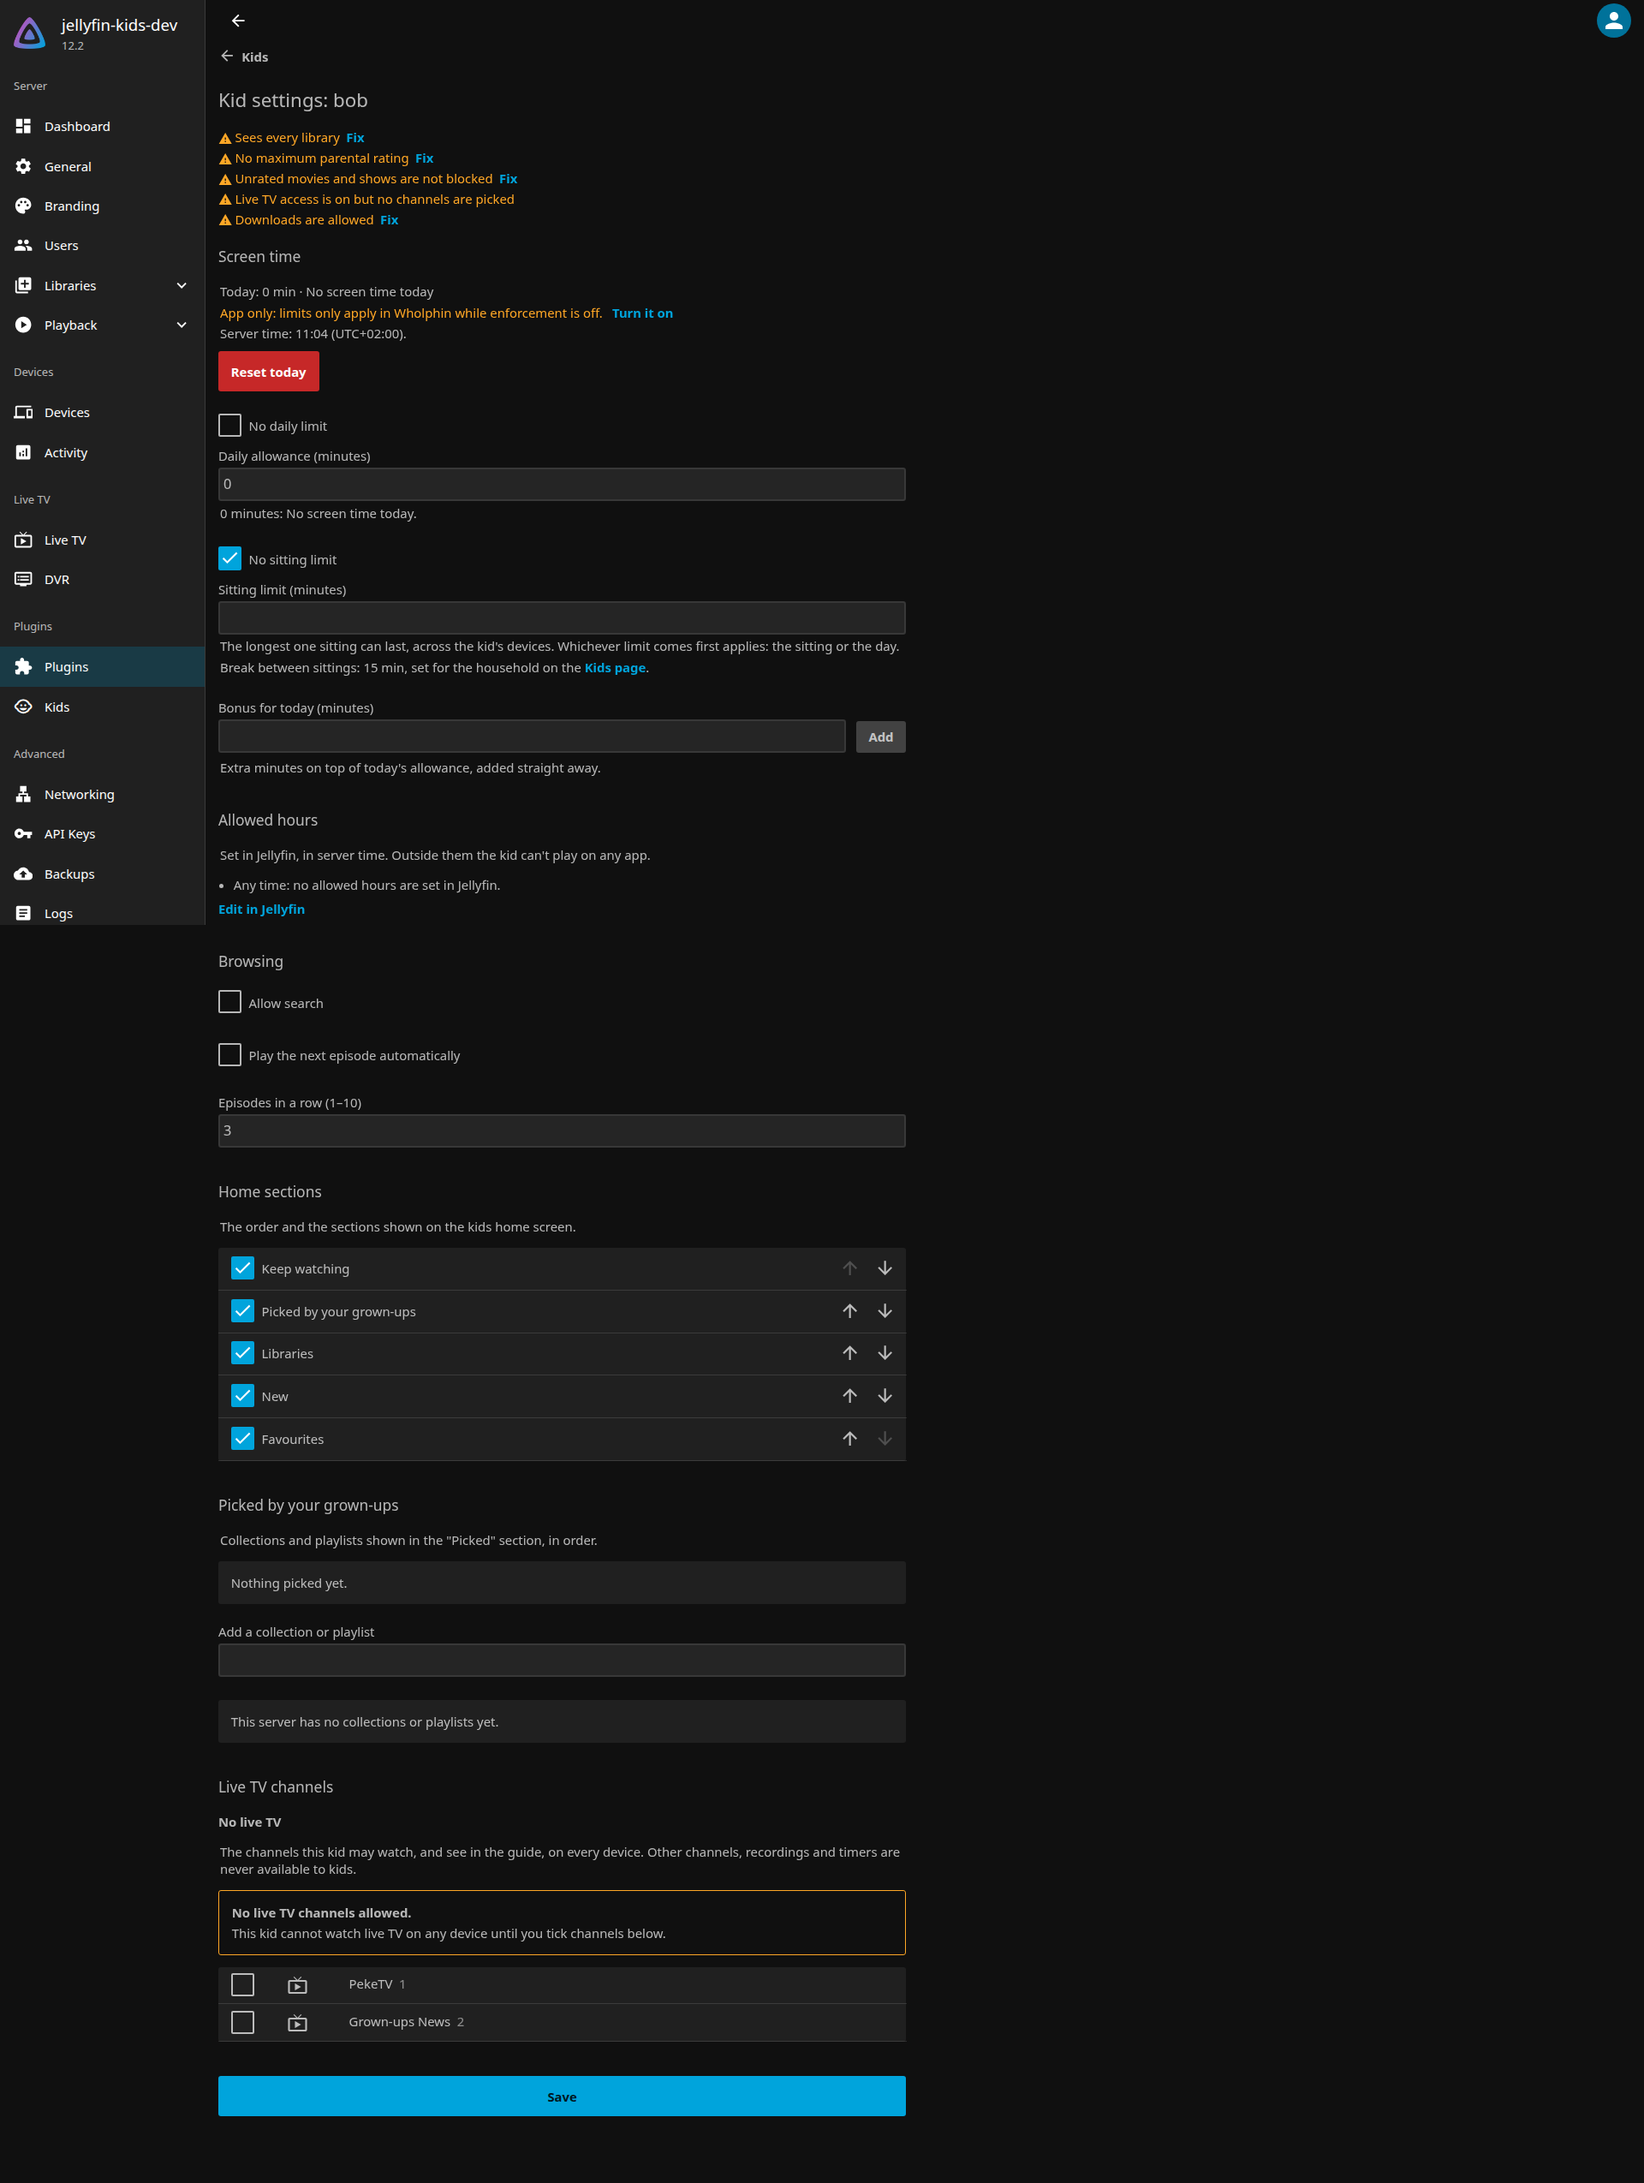
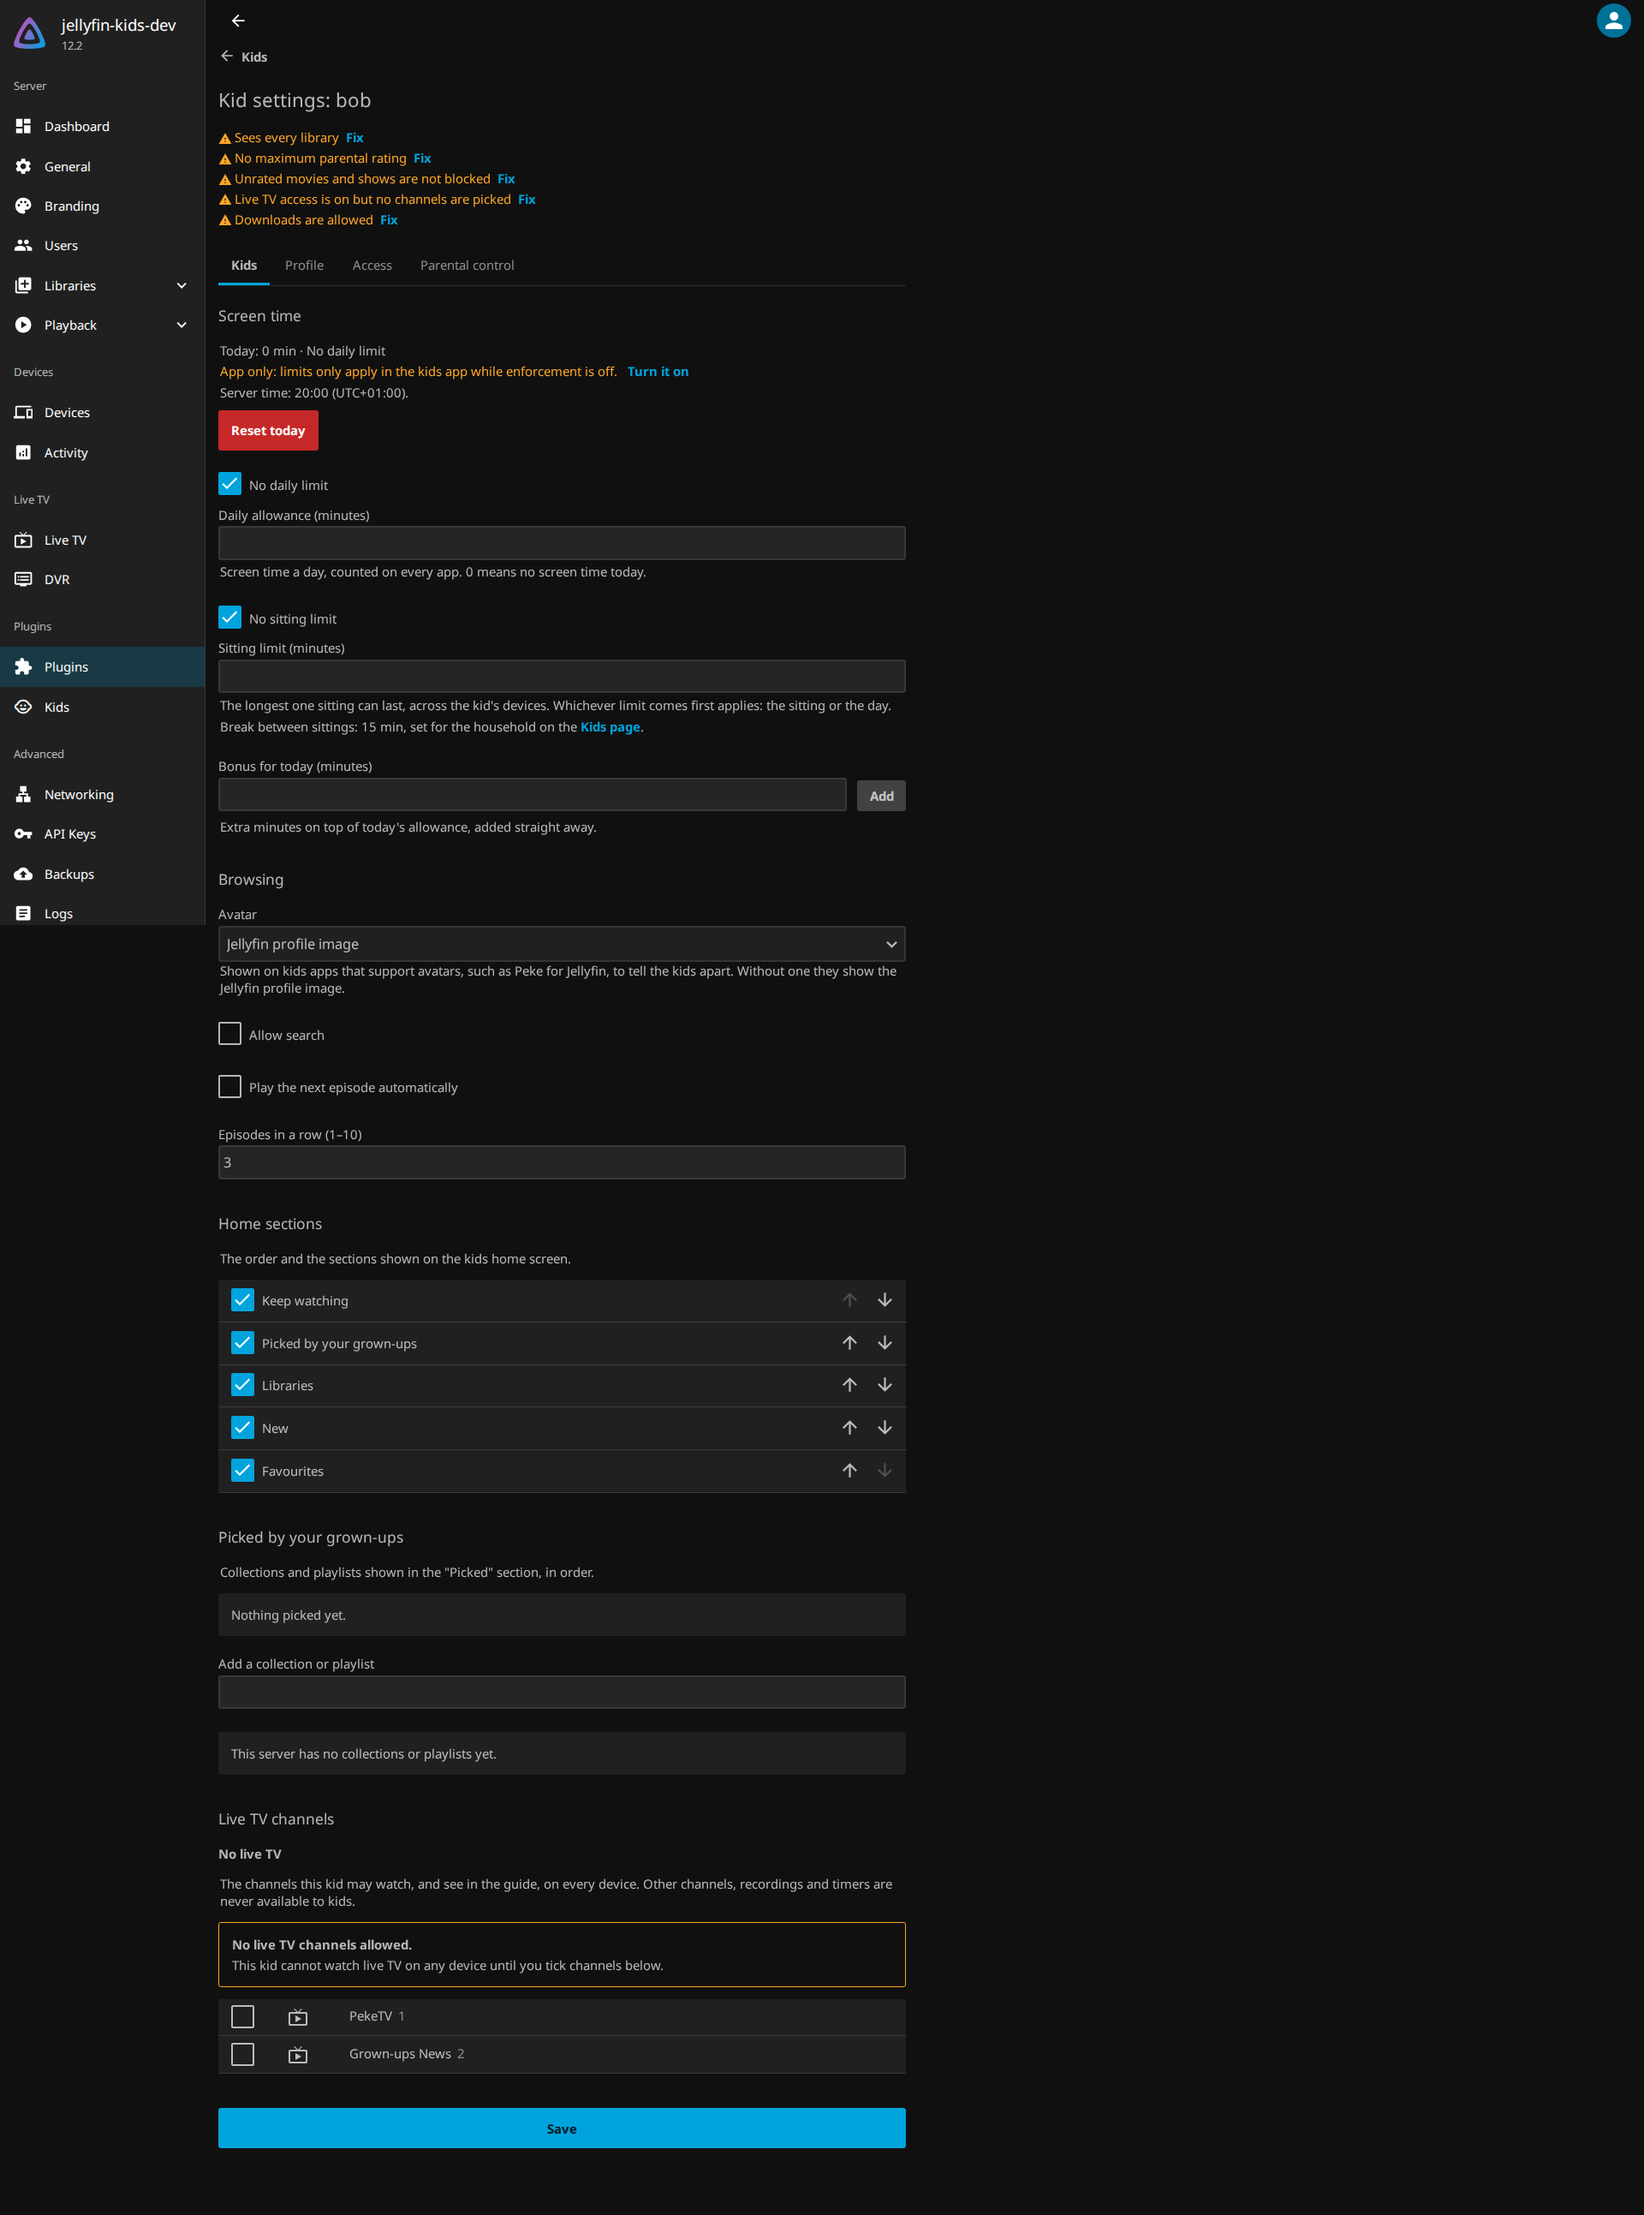
Document the kid editor's Jellyfin tabs

Changed region(s): [[0.0, 0.031, 0.5625, 0.9298], [0.0625, 0.0, 0.0938, 0.031]]

diff --git a/README.md b/README.md
@@ -67,7 +67,7 @@ and for installing a release by hand.
 | **Live TV channels per kid** | Pick which live TV channels each kid may watch (for example the kids channels of an ErsatzTV tuner). On every client, a kid can only play, list and see the guide of their own channels, and never recordings or timers. Live TV counts as screen time. Always on, so kids have no live TV until you pick their channels; see [Live TV](#live-tv). |
 | **Day start** | Choose the hour the day resets, with daylight saving handled. |
 | **Offline playback** | Clients can report downloads watched offline. Reports can only add time, never remove it. |
-| **Dashboard pages** | Everything above is managed from Jellyfin's own dashboard, no extra app needed. Each kid shows what still leaves them unprotected in Jellyfin (an administrator account, every library, no maximum rating, unrated movies and shows, live TV access, picked channels that Jellyfin's parental control hides, downloads) with a link to fix it, and a banner says when limits only apply in the kids app. |
+| **Dashboard pages** | Everything above is managed from Jellyfin's own dashboard, no extra app needed. Each kid shows what still leaves them unprotected in Jellyfin (an administrator account, every library, no maximum rating, unrated movies and shows, live TV access, picked channels that Jellyfin's parental control hides, downloads), and each fix is on the kid's own page: libraries, maximum rating, unrated items, allowed hours, live TV access and downloads are edited there, next to the kids settings. A banner says when limits only apply in the kids app. |
 | **Cleanup** | A deleted user's kid profile and usage go with them, and usage older than 90 days is pruned daily. |
 
 ## Screenshots
@@ -77,11 +77,11 @@ The Kids dashboard pages in Jellyfin 12.2 (development server, with sample kids)
 <table>
   <tr>
     <td width="50%"><a href="docs/assets/screenshots/kids-page-dark.png"><img src="docs/assets/screenshots/kids-page-dark.png" alt="Kids page in the dark theme: users with their kid status, today's screen time and health warnings with Fix links, the enforcement banner, the parent lock and the screen time settings"></a></td>
-    <td width="50%"><a href="docs/assets/screenshots/kid-editor-dark.png"><img src="docs/assets/screenshots/kid-editor-dark.png" alt="Kid editor in the dark theme: health warnings, screen time with Reset today, daily allowance, sitting limit and bonus, allowed hours, browsing, home sections, picks and live TV channels"></a></td>
+    <td width="50%"><a href="docs/assets/screenshots/kid-editor-dark.png"><img src="docs/assets/screenshots/kid-editor-dark.png" alt="Kid editor in the dark theme: health warnings with Fix links above the Kids, Profile, Access and Parental control tabs; the Kids tab with screen time and Reset today, daily allowance, sitting limit and bonus, browsing, home sections, picks and live TV channels"></a></td>
   </tr>
   <tr>
     <td align="center"><b>Kids page</b>: who is a kid, today's screen time, what still leaves each kid unprotected, with Fix links, the parent lock and household settings.</td>
-    <td align="center"><b>Kid editor</b>: screen time, sitting limit, bonus and Reset today, allowed hours, home sections, picks and live TV channels.</td>
+    <td align="center"><b>Kid editor</b>: screen time, sitting limit, bonus and Reset today, home sections, picks and live TV channels, with tabs for the kid's Jellyfin profile, libraries and parental control.</td>
   </tr>
   <tr>
     <td width="50%"><a href="docs/assets/screenshots/kids-page-light.png"><img src="docs/assets/screenshots/kids-page-light.png" alt="Kids page in the light theme"></a></td>
@@ -134,9 +134,9 @@ whether or not enforcement is: they are a content rule, like ratings. For kids o
 - Playing a channel that is not in their list is refused on every client (jellyfin-web shows "Playback of this media
   is not allowed"; other routes answer 403 with `X-Kids-Reason: liveTvChannel`).
 - Jellyfin's own channel list and guide show only their channels; recordings and timers are refused.
-- The kid's Jellyfin user still needs **Allow Live TV access** (the editor warns when it is off), and Jellyfin's
-  ratings and "block unrated" settings still apply to channels and programs: the dashboard names each picked channel
-  they hide from a kid, and how to fix it.
+- The kid's Jellyfin user still needs **Allow Live TV access**: turn it on in the kid's Profile tab (the editor warns
+  when it is off). Jellyfin's ratings and "block unrated" settings still apply to channels and programs: the
+  dashboard names each picked channel they hide from a kid, and the editor tab that fixes it.
 - Live TV counts toward the daily allowance and the sitting, and enforcement stops it like any other playback.
 
 Kids clients read the kid's channels and guide from `GET /Kids/Users/{id}/LiveTv/Channels` and `/LiveTv/Programs`.

diff --git a/specs/001-kids-plugin-foundation/contracts/dashboard-pages.md b/specs/001-kids-plugin-foundation/contracts/dashboard-pages.md
@@ -53,3 +53,31 @@ Both modules are `export default function (view, params)` and load their data on
     the form with the returned profile. Nothing is overwritten (FR-026).
   - 404: "This user is no longer a kid".
 - **Controls**: everything is reachable with the keyboard; the up and down buttons are `paper-icon-button-light`.
+- **Tabs**: the health issues sit above a tab strip (`role="tablist"`, the arrow keys move along it). The URL's
+  optional `&tab=kids|profile|access|parental` picks the first one shown; anything else shows Kids.
+  - **Kids**: everything above, saved with the plugin API.
+  - **Profile**: "Allow this user to manage the server" (shown only while the kid is an administrator, so it can be
+    turned off), "Allow Live TV access", "Allow media downloading".
+  - **Access**: "Enable access to all libraries", or a checkbox per library.
+  - **Parental control**: the maximum allowed parental rating ("None" for no maximum), the item types blocked when
+    unrated, and the allowed hours (added in a dialog, removed per row).
+
+  Profile, Access and Parental control are the kid's Jellyfin account settings and link to Jellyfin's user page for
+  the rest. Each tab marks unsaved changes on its own, and switching tabs keeps them.
+- **Load** (Jellyfin tabs): also `GET /Library/MediaFolders?IsHidden=false` and `GET /Localization/ParentalRatings`
+  (grouped by score and sub score, as jellyfin-web lists them). Both are required, like the user.
+- **Save (Jellyfin tabs)**: each tab is its own form with its own Save, as jellyfin-web's user tabs:
+  1. re-read the user (`ApiClient.getUser`), so the write starts from the current policy;
+  2. change only the tab's fields:
+     - Profile: `IsAdministrator` (only ever turned off), `EnableLiveTvAccess`, `EnableContentDownloading`;
+     - Access: `EnableAllFolders`, `EnabledFolders` (empty when all libraries are on; stored ids the list doesn't
+       show are kept);
+     - Parental control: `MaxParentalRating`, `MaxParentalSubRating`, `BlockUnratedItems` (types the page doesn't
+       list are kept), `AccessSchedules`;
+  3. `POST /Users/{id}/Policy` with the whole policy, every other field as it came;
+  4. "Settings saved", and the health issues are recomputed from the saved policy.
+
+  On an error, Jellyfin's reason shows inline in the tab ("Couldn't save to Jellyfin: … Nothing was changed."), and
+  the form keeps its values for a retry.
+- **Health issues**: each Fix opens the editor tab that fixes it, in the editor and from the Kids page
+  (`#/configurationpage?name=KidsUser&userId=<guid>&tab=<tab>`).

diff --git a/specs/001-kids-plugin-foundation/quickstart.md b/specs/001-kids-plugin-foundation/quickstart.md
@@ -87,6 +87,21 @@ Expected: `GET /Kids/Profiles` no longer lists `bob`, and the log has an "Remove
    editor. It reports that the settings changed elsewhere and offers to load them. Nothing is overwritten
    (FR-026).
 6. Delete the picked playlist in Jellyfin and reopen the editor. The pick shows as missing and can be removed.
+7. The Jellyfin tabs, in `alice`'s editor:
+   - Each Fix in the health list opens the right tab (Profile, Access, Parental control or Kids), and its warning
+     goes away after saving there. From Dashboard → Kids, alice's Fix links open the editor on the same tabs.
+   - Profile, Access and Parental control each save their fields, and Dashboard → Users → alice shows the same
+     values.
+   - Nothing is lost: set an allowed tag and limit `alice` to one device in Jellyfin first, then save each Jellyfin
+     tab in the editor. Jellyfin still shows the tag and the device.
+   - An allowed-hours slot can be added and removed. With enforcement on, a slot ending in 2 minutes brings the
+     bedtime warning and stop as `alice`.
+   - Change `alice`'s policy from another browser tab, then save a Jellyfin tab here. The other change survives,
+     except for this tab's fields.
+   - The last administrator: make `bob` an administrator, sign in as `bob` and take administrator away from `admin`
+     in Jellyfin, so `bob` is the only one. In `bob`'s editor, untick the administrator box and save: Jellyfin's
+     refusal shows inline in the Profile tab, and nothing changes. Give `admin` administrator back afterwards.
+   - Check the tabs in the light and dark themes and at phone width: the tabs wrap and the dialog fits.
 
 ## 6. Restart persistence
 
